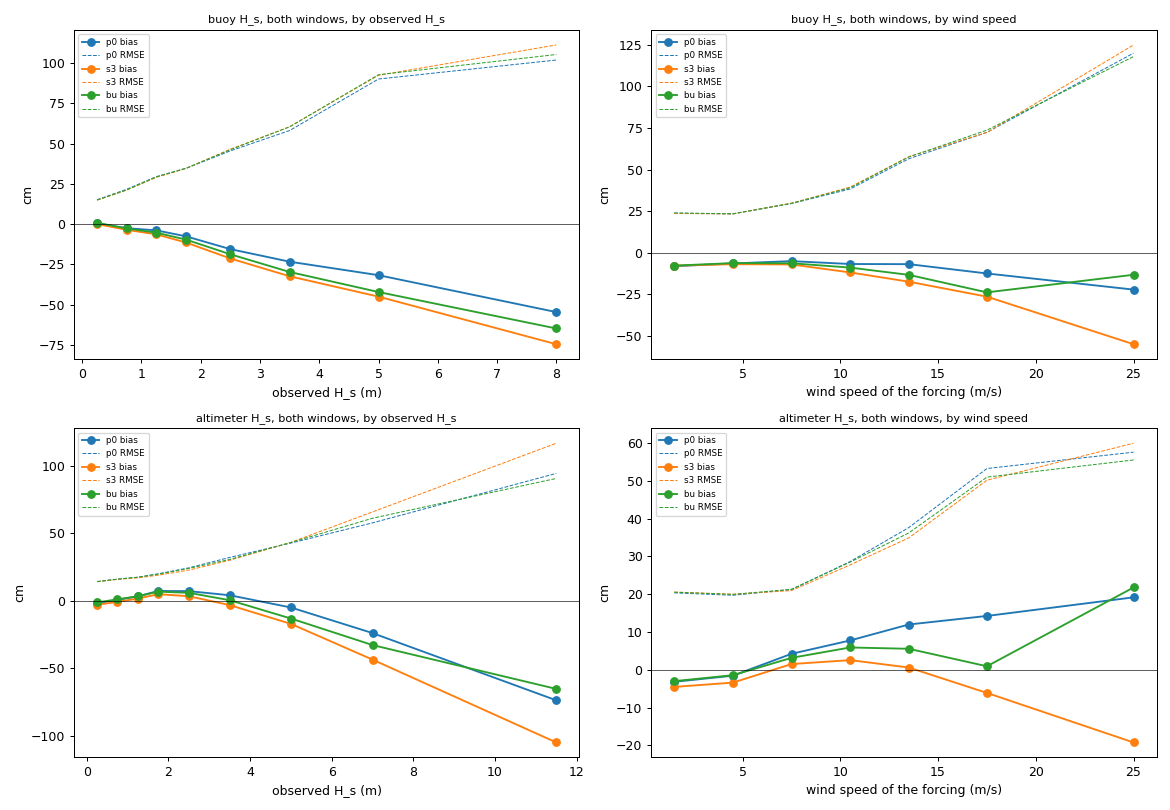
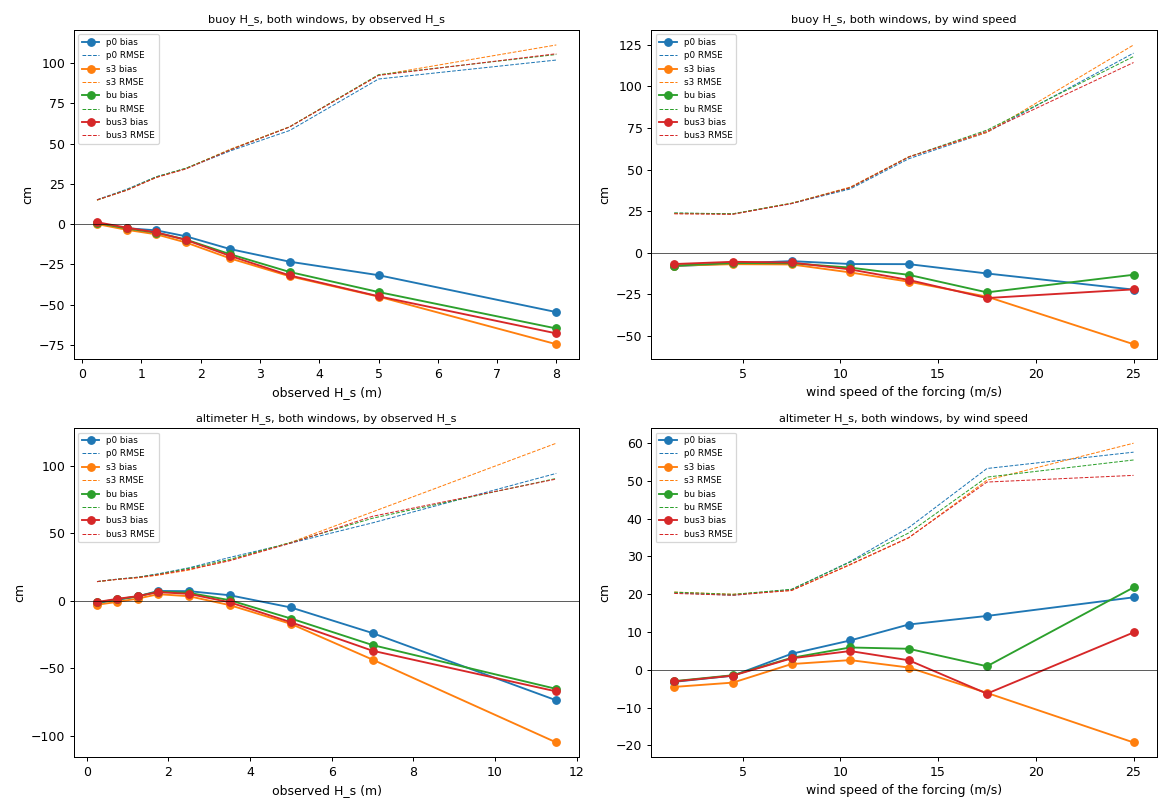
Record the rejected BETAMAX(U) step from step 3 in the note: the calibration paragraph of tex/hww3/main.tex gives the step of commit f98b634, started from step 3 in the c_k coordinates with the p0 Jacobian at the step-3 residuals (value run job 4415590), beta at the knots 2-20 m/s of 1.625, 1.684, 1

diff --git a/tex/hww3/main.tex b/tex/hww3/main.tex
@@ -2629,20 +2629,40 @@ at the third step and with $\beta(U)$. Below \SI{6}{m} and \SI{20}{m/s}
 the RMSE of a class differs by at most \SI{3}{cm} between the three runs.
 The constant third step belongs to the family (every $c_k=-0.243$) and
 is better than this point, so the Jacobian frozen at the start cannot
-reach it, as in the calibration. Started from the third step in the
-coordinates $c_k$, the same Jacobian predicts a further 1.31\,\% on the
-training cost.
+reach it, as in the calibration.
+\item \emph{From the third step.} Started from the third step in the
+coordinates $c_k$, the same Jacobian at the residuals of the third step
+predicts a further 1.31\,\% on the training cost. The step (job 4415590)
+gives $\beta$ of 1.625, 1.684, 1.336, 1.438, 1.355, 1.298 and 1.525 at
+the knots, \texttt{SDSC2} $\times0.636$ and \texttt{NLPROP}
+$\times1.136$. The training cost with the prior falls by 1.14\,\% from
+the third step (1.31\,\% predicted), 4.29\,\% from the start in data
+cost, but the validation cost rises by 0.87\,\%, from 48\,173.9 to
+48\,592.1 (altimeters $+401$, $T_{m02}$ $+151$, buoy $H_s$ $-134$), so
+the step is rejected and the test ends at the third step. The point
+repeats the alternation of the first one, 0.15 to 0.23 lower in
+$\ln\beta$ from \SI{5}{m/s} up (figure~\ref{fig:betau}); both come from
+the same Jacobian, so the shape is not independent evidence. Its RMSE is
+equal to or lower than that of the third step in 22 of 31 classes of
+figure~\ref{fig:betaubias}, mostly rare ones (altimeters above
+\SI{8}{m}: 90.1 against \SI{116.7}{cm}), but 0.4 to \SI{0.5}{cm} higher
+for the altimeters at 1.5 to \SI{3}{m}, where most blocks are and where
+the validation cost rises. On these two-day windows and with the
+Jacobian of the start, $\beta(U)$ does not beat the constant third step
+on the validation window; the test with a month of data and a refreshed
+Jacobian is left for after the optimisation.
 \end{itemize}
 
 \begin{figure}[H]
 \centering
 \includegraphics[width=0.8\textwidth]{fig/cal_betau_curve.png}
 \caption{Test of \texttt{BETAMAX} as a function of the wind: $\beta(U)$
-after one step from the start with the Jacobian of the start, with one
-posterior standard deviation (unscaled and scaled by the reduced
-$\chi^2$), over the distribution of the wind speeds of the node-hours of
-both windows. Dotted: the start (1.75); dashed: the third step of the
-calibration (1.3725).}
+after one step from the start (bu1, accepted) and one step from the third
+step of the calibration (bus3, rejected on the validation window), both
+with the Jacobian of the start, with one posterior standard deviation
+(unscaled and scaled by the reduced $\chi^2$), over the distribution of
+the wind speeds of the node-hours of both windows. Dotted: the start
+(1.75); dashed: the third step (1.3725). CPU job 4415662.}
 \label{fig:betau}
 \end{figure}
 
@@ -2652,8 +2672,9 @@ calibration (1.3725).}
 \caption{Test of \texttt{BETAMAX} as a function of the wind: bias and
 RMSE of the buoy and altimeter $H_s$ over both windows, binned by the
 observed $H_s$ and by the wind speed of the forcing at the observation,
-at the start (p0), at the third step of the calibration (s3) and with
-$\beta(U)$ (bu), under the third cost. CPU job 4415565.}
+at the start (p0), at the third step of the calibration (s3), with
+$\beta(U)$ after one step from the start (bu) and after one step from the
+third step (bus3), under the third cost. CPU job 4415662.}
 \label{fig:betaubias}
 \end{figure}
 
